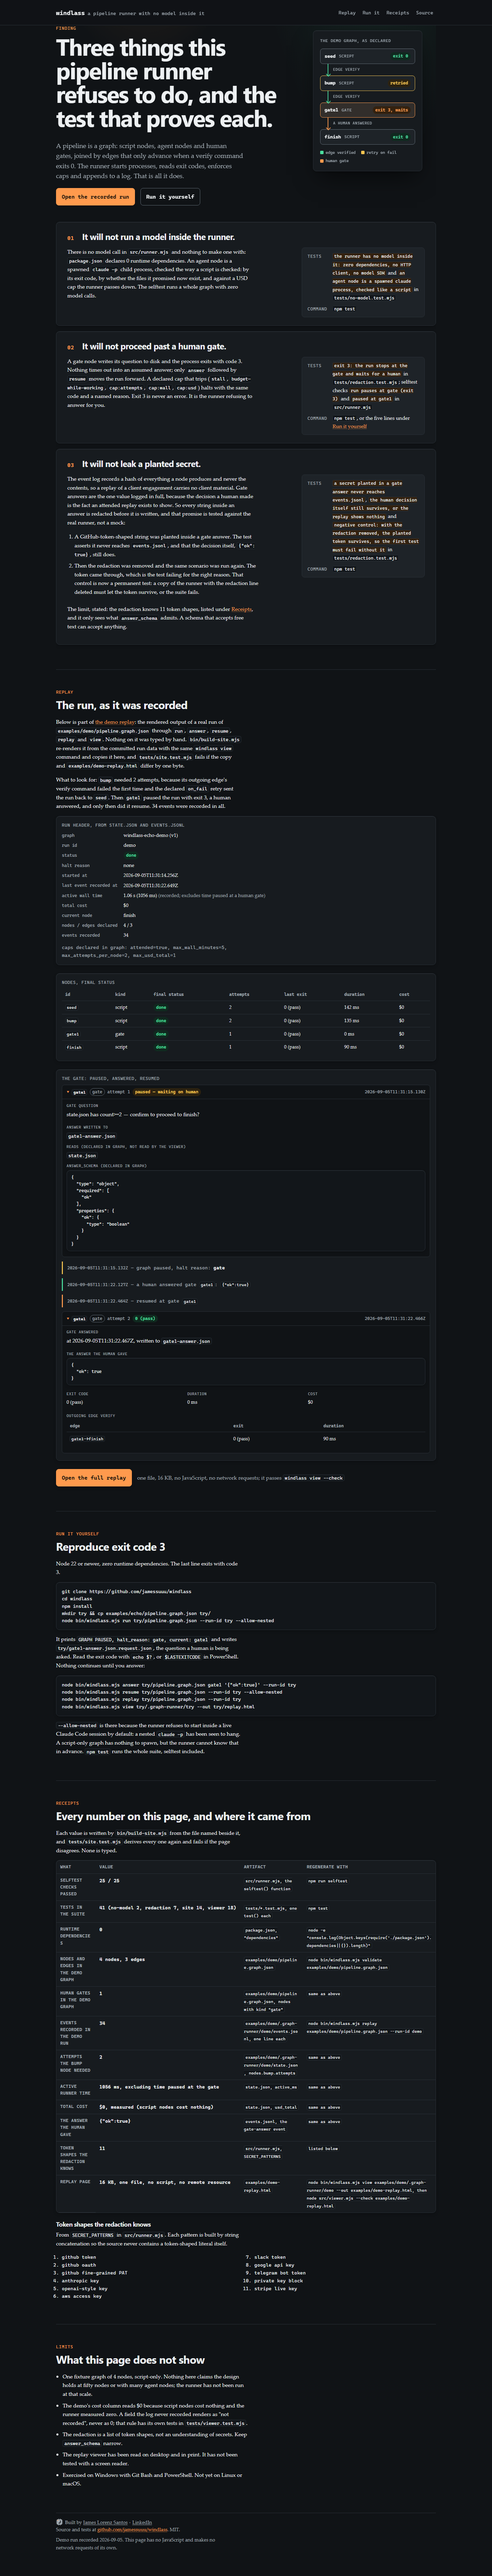
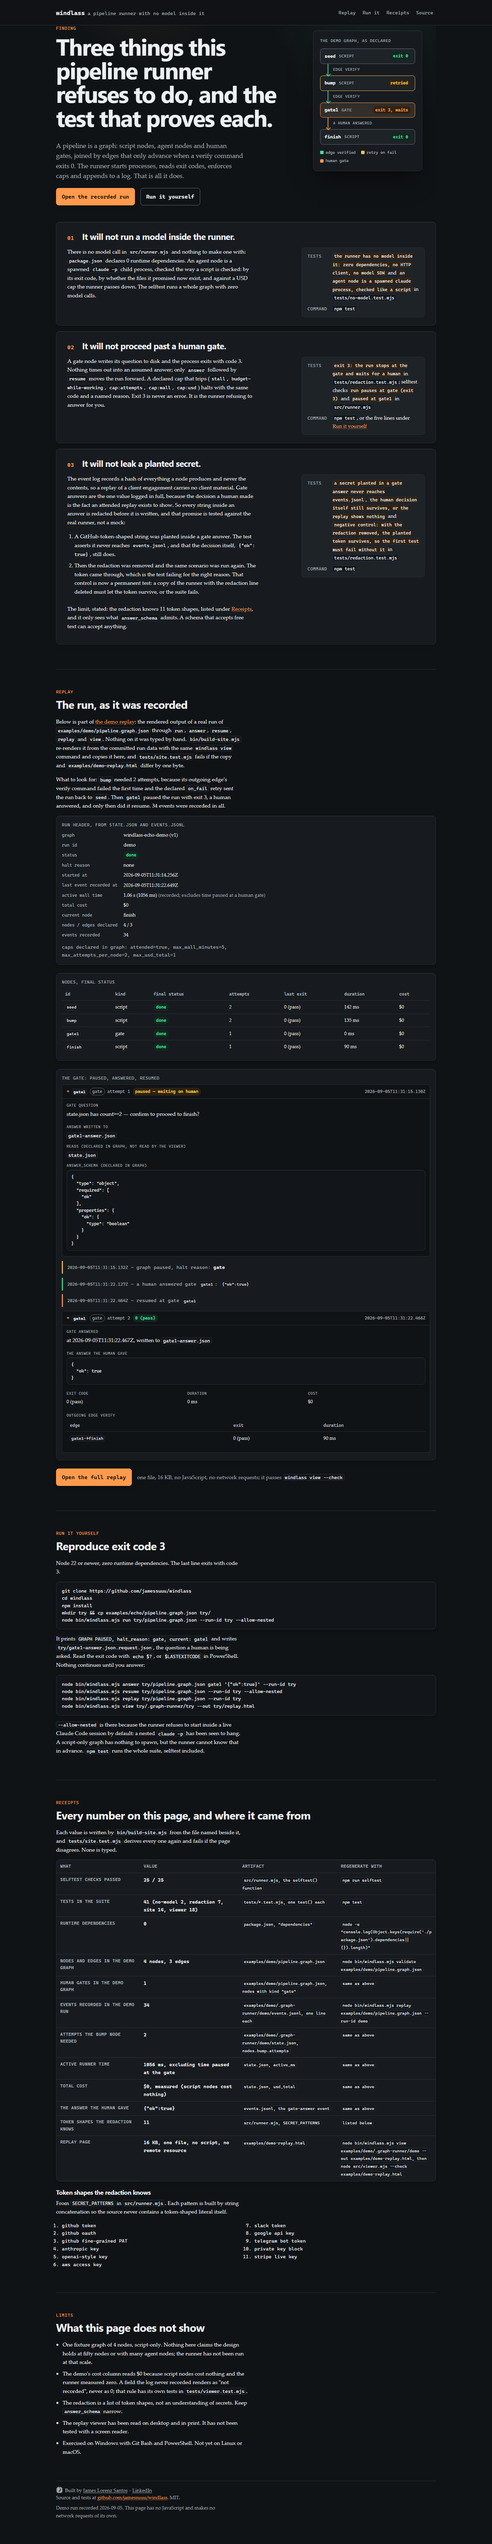
fix(site): stop the receipts table wrapping itself into a 15,000px column
At 390px the four columns squeezed to a few characters each and every
artifact path wrapped into a stack of single words. The receipts section
alone measured 15,096px tall, which was most of a 25,066px page. The
wrapper has always had overflow-x: auto; the table now has a 760px
minimum and a fixed layout with explicit column widths, so it scrolls
inside its own box instead of collapsing.

Two things had to move with it: overflow-wrap: anywhere on the row
headers told the layout their min-content width was one character, so
auto layout gave the what column 55px and the value column 423px of the
same table; and white-space: nowrap on the value cells ran them straight
over the artifact column once the layout was fixed (caught at 1440,
mid-word, before this landed).

Page height at 390: 25,066px -> 11,030px. npm test 41 pass / 0 fail.

Claude-Session: https://claude.ai/code/session_019rfvjaP9hvT368bXjyYaBM

diff --git a/site/styles.css b/site/styles.css
@@ -547,11 +547,29 @@ details.block[open] > summary { border-bottom: 1px solid var(--rule); }
 
 /* ------------------------------------------------------------------ receipts */
 .receipts-table { overflow-x: auto; margin: 0 0 1.4em; border: 1px solid var(--rule); border-radius: var(--radius); background: var(--sheet); box-shadow: var(--depth-edge), var(--elev-1); }
-.receipts-table table { border-collapse: collapse; width: 100%; font-size: 0.89rem; }
+/* min-width, not width:100% alone. At 390px the four columns squeezed to a
+   few characters each and every artifact path wrapped into a column of
+   single words: the receipts section alone measured 15,096px tall, which is
+   most of a 25,066px page. The table scrolls inside its own box instead
+   (which .receipts-table's overflow-x has always been there to do). */
+.receipts-table table { border-collapse: collapse; table-layout: fixed; width: 100%; min-width: 760px; font-size: 0.89rem; }
 .receipts-table th, .receipts-table td { text-align: left; padding: 0.55rem 0.7rem; border-bottom: 1px solid var(--rule); vertical-align: top; overflow-wrap: anywhere; }
+/* The row headers are ordinary prose, so they must not break mid-word.
+   overflow-wrap: anywhere told the layout their min-content width was one
+   character, and auto table layout duly gave the "what" column ~55px and the
+   "value" column 423px of the same 720px table. Explicit widths, and normal
+   wrapping on the header itself. */
+.receipts-table th[scope="row"] { overflow-wrap: normal; }
+.receipts-table col.c-what { width: 22%; }
+.receipts-table col.c-value { width: 26%; }
+.receipts-table col.c-artifact { width: 26%; }
+.receipts-table col.c-how { width: 26%; }
 .receipts-table th { font-family: var(--mono); font-size: 0.79rem; letter-spacing: 0.05em; text-transform: uppercase; color: var(--muted); }
 .receipts-table tr:last-child td { border-bottom: 0; }
-.receipts-table td.n { font-family: var(--mono); font-weight: 700; white-space: nowrap; }
+/* white-space: normal, not nowrap. Under table-layout: fixed a nowrap value
+   simply ran out of its cell and over the artifact column beside it (seen at
+   1440: "41 (no-model 2, redaction 7" clipped mid-word). */
+.receipts-table td.n { font-family: var(--mono); font-weight: 700; white-space: normal; }
 .shapes { columns: 2; column-gap: 32px; padding-left: 1.2em; margin: 0 0 1em; font-family: var(--mono); font-size: 0.89rem; }
 .shapes li { break-inside: avoid; }
 

diff --git a/site/index.html b/site/index.html
@@ -183,6 +183,7 @@ node bin/windlass.mjs view try/.graph-runner/try --out try/replay.html</code></p
   <p>Each value is written by <code>bin/build-site.mjs</code> from the file named beside it, and <code>tests/site.test.mjs</code> derives every one again and fails if the page disagrees. None is typed.</p>
   <!-- gen:receipts -->
   <div class="receipts-table"><table>
+    <colgroup><col class="c-what"><col class="c-value"><col class="c-artifact"><col class="c-how"></colgroup>
     <thead><tr><th scope="col">What</th><th scope="col">Value</th><th scope="col">Artifact</th><th scope="col">Regenerate with</th></tr></thead>
     <tbody>
       <tr><th scope="row">Selftest checks passed</th><td class="n">25 / 25</td><td><code>src/runner.mjs, the selftest() function</code></td><td><code>npm run selftest</code></td></tr>
